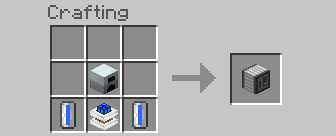
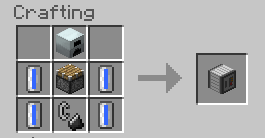
Updated crafting recipe
now inline with Geothermal and TE Magma engine

diff --git a/src/common/drceph/petrogen/common/PetroleumGenerator.java b/src/common/drceph/petrogen/common/PetroleumGenerator.java
@@ -30,6 +30,7 @@ import java.util.logging.Logger;
 
 import buildcraft.BuildCraftEnergy;
 import net.minecraft.src.Block;
+import net.minecraft.src.Item;
 import net.minecraft.src.ItemStack;
 import net.minecraftforge.common.Configuration;
 import net.minecraftforge.common.MinecraftForge;
@@ -109,12 +110,13 @@ public class PetroleumGenerator {
 		GameRegistry.registerBlock(petroleumGeneratorBlock);
 		MinecraftForge.setBlockHarvestLevel(petroleumGeneratorBlock, "pickaxe", 0);
 		LanguageRegistry.addName(petroleumGeneratorBlock, "Petroleum Generator");
-		ItemStack bStack = ic2.api.Items.getItem("generator");
-		ItemStack cStack = new ItemStack(BuildCraftEnergy.engineBlock, 1, 2);
+		ItemStack aStack = ic2.api.Items.getItem("generator");
+		ItemStack bStack = new ItemStack(Block.pistonBase);
+		ItemStack cStack = new ItemStack(Item.flintAndSteel);
 		ItemStack dStack = ic2.api.Items.getItem("waterCell");
 		
-		GameRegistry.addRecipe(new ItemStack(petroleumGeneratorBlock),"   "," b ","dcd",
-				'b',bStack,'c',cStack,'d',dStack);
+		GameRegistry.addRecipe(new ItemStack(petroleumGeneratorBlock)," G ","CPC","CFC",
+				'G',aStack,'P',bStack,'F',cStack,'C',dStack);
 		
 		GameRegistry.registerTileEntity(TileEntityPetroleumGenerator.class, "TileEntityPetroleumGenerator");
 		
